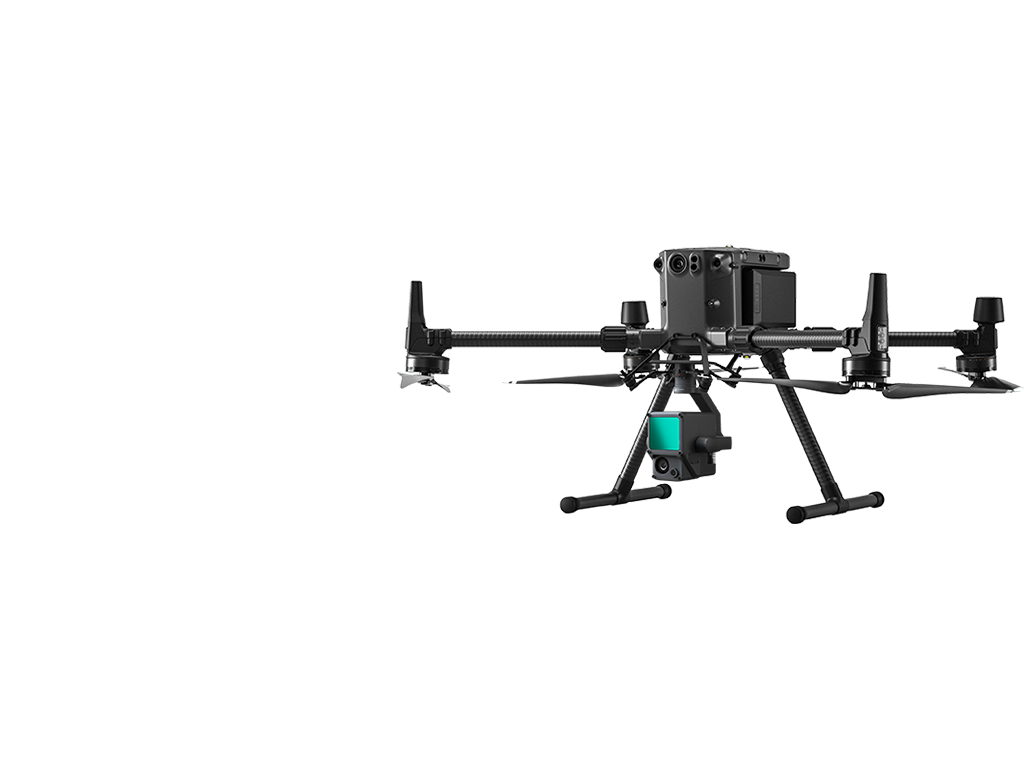
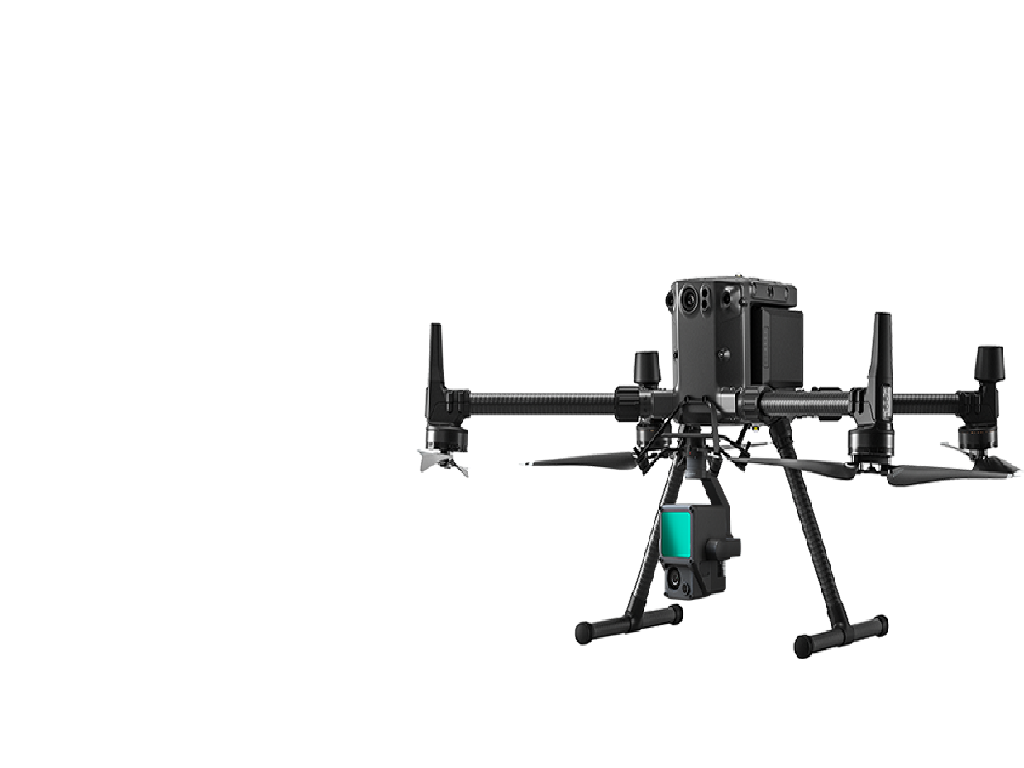
adjustmentandpics

Changed region(s): [[0.375, 0.3125, 1.0, 0.875]]

diff --git a/src/app/components/gallery/gallery.component.css b/src/app/components/gallery/gallery.component.css
@@ -6,10 +6,8 @@
   }
   
   .gallery-title {
-    font-size: 2rem;
     margin-bottom: 20px;
     text-transform: uppercase;
-    font-weight: bold;
   }
   
   .gallery-grid {
@@ -22,21 +20,30 @@
     display: flex;
     flex-direction: column;
     justify-content: space-between;
-    align-items: center;
-    padding: 30px;
-    border-radius: 12px;
-    height: 250px; /* Increased height */
-    background-color: rgba(0, 0, 0, 0.85); /* Consistent dark shade */
-    color: white; /* White text for contrast */
+    width: 100%;
+    background-color: rgba(50, 50, 50, 0.9); /* Dark gray background */
+    box-shadow: 0 2px 10px rgba(139, 6, 6, 0.2);
+    border-radius: 8px;
+    border: 1px solid rgb(111, 10, 10);
+    padding: 16px;
     cursor: pointer;
-    transition: transform 0.3s ease, box-shadow 0.3s ease;
-    box-shadow: 0 4px 10px rgba(0, 0, 0, 0.5);
-  
-    &:hover {
-      transform: scale(1.05);
-      box-shadow: 0 6px 20px rgba(0, 0, 0, 0.8);
-    }
+    transition: transform 0.2s ease, box-shadow 0.2s ease;
   }
+
+  img {
+    width: 100%;
+    filter: sepia(1) hue-rotate(200deg) saturate(3);
+
+  }
+
+  
+.gallery-card:hover {
+  transform: scale(1.02);
+  /* color:rgb(111, 10, 10); */
+  background-color: rgba(88, 86, 86, 0.9); /* Dark gray background */
+
+  box-shadow: 0 4px 20px rgba(192, 6, 6, 0.89);
+}
   
   .gallery-icon {
     font-size: 4rem; /* Larger icon */
@@ -46,8 +53,7 @@
   }
   
   h2.gallery-title {
-    font-size: 1.4rem;
-    font-weight: bold;
+    font-size: 20px;
     margin-top: 10px;
   }
   

diff --git a/src/app/components/services/services.component.css b/src/app/components/services/services.component.css
@@ -3,19 +3,28 @@
   flex-direction: column;
   gap: 20px; /* Vertical spacing between tiles */
   padding: 20px;
+  align-items: center;
 }
 
 .tile {
   display: flex;
   align-items: center;
-  background-color: #2a2828;
-  border: 1px solid #e0e0e0;
   border-radius: 12px;
   padding: 20px;
-  box-shadow: 0 4px 8px rgba(0, 0, 0, 0.1);
+  background-color: rgba(50, 50, 50, 0.9); /* Dark gray background */
+  box-shadow: 0 2px 10px rgba(139, 6, 6, 0.2);
+  border: 1px solid rgb(111, 10, 10);
   transition: transform 0.3s ease;
   position: relative; /* For positioning the overflowing image */
   overflow: visible; /* Allows the image to overflow the tile */
+  width: 50%
+}
+
+.tile:hover {
+    transform: scale(1.02);
+    /* color:rgb(111, 10, 10); */
+    background-color: rgba(88, 86, 86, 0.9); /* Dark gray background */  
+    box-shadow: 0 4px 20px rgba(192, 6, 6, 0.89);
 }
 
 .tile:hover {
@@ -32,7 +41,8 @@
 .tile-title {
   font-size: 18px;
   font-weight: bold;
-  margin-bottom: 10px;
+  margin-top: 10px;
+  margin-bottom: 50px;
 }
 
 .tile-button {
@@ -60,7 +70,7 @@
 }
 
 .tile-image img {
-  width: 120%; /* Slightly larger than its container */
+  width: 180%; /* Slightly larger than its container */
   height: auto;
   object-fit: contain;
   border-radius: 8px;

diff --git a/src/app/components/gallery/gallery.component.html b/src/app/components/gallery/gallery.component.html
@@ -3,20 +3,21 @@
     <div class="gallery-grid">
       <!-- Card 1: Video Request -->
       <mat-card class="gallery-card" (click)="navigateTo('video-request')">
-        <mat-icon class="gallery-icon">videocam</mat-icon>
-        <h2 class="gallery-title">Video Request</h2>
+        <!-- <mat-icon class="gallery-icon">videocam</mat-icon> -->
+        <img src="../../../assets/genvideo.png" />
+        <h2 class="gallery-title">Generated Videos</h2>
       </mat-card>
   
       <!-- Card 2: Photo Request -->
       <mat-card class="gallery-card" (click)="navigateTo('photo-request')">
-        <mat-icon class="gallery-icon">photo</mat-icon>
-        <h2 class="gallery-title">Photo Request</h2>
+        <img src="../../../assets/genphoto.png" />
+        <h2 class="gallery-title">Generated Photos</h2>
       </mat-card>
   
       <!-- Card 3: LSL Videos -->
       <mat-card class="gallery-card" (click)="navigateTo('lsl-videos')">
-        <mat-icon class="gallery-icon">movie</mat-icon>
-        <h2 class="gallery-title">LSL Videos</h2>
+        <img src="../../../assets/editedvideo.png" />
+        <h2 class="gallery-title">Flawlessly Edited Video</h2>
       </mat-card>
            
     </div>
